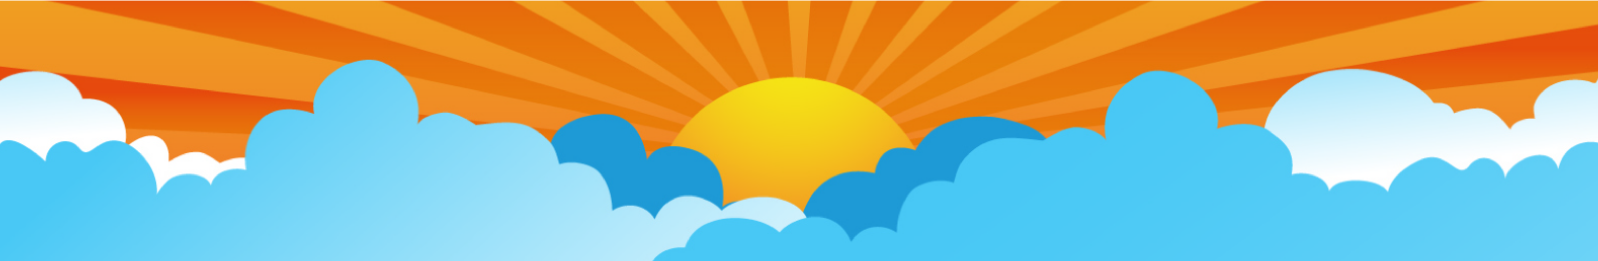
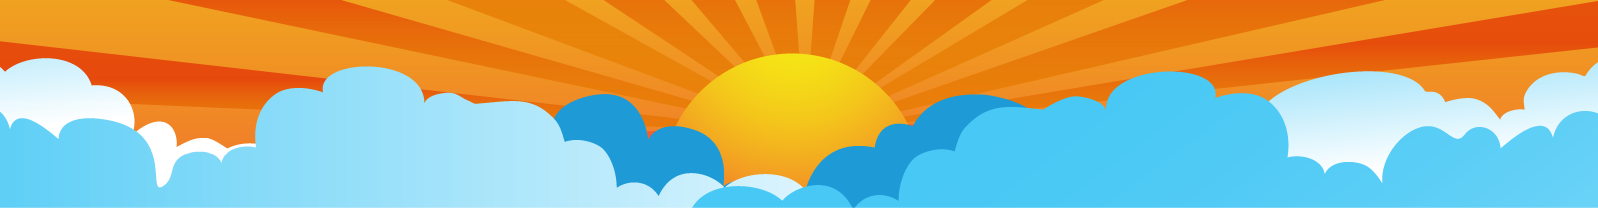
Add countdown

diff --git a/public/js/app.js b/public/js/app.js
@@ -5,6 +5,8 @@ $(function() {
      update: onWordSorted
   });
 
+  setInterval(countDown, 1000);
+
   $('.circle').click(function() {
     var targetSelector = $(this).data('target');
     var offset = $(targetSelector).offset().top;
@@ -62,10 +64,10 @@ function onWordSorted(event, ui) {
   });
 
   if(isOrdered(indexes)) {
-    $('#' + scramble.data('message')).show();
+    $('#' + scramble.data('message')).fadeIn();
   }
   else {
-   $('#' + scramble.data('message')).hide(); 
+   $('#' + scramble.data('message')).fadeOut(); 
   }
 }
 
@@ -134,4 +136,19 @@ function userScrolledThePage() {
   var target = $('.circle')[targetIndex];
 
   $(target).addClass('full');
+}
+
+function countDown() {
+  var eventDate = new Date(2012, 08, 18, 9, 0, 0).getTime();
+  var now = new Date().getTime();
+  var secsLeft = Math.floor(eventDate - now) / 1000;
+  var daysLeft = Math.floor(secsLeft / 86400);
+  var hoursLeft = Math.floor((secsLeft % 86400) / 3600);
+  var minutesLeft = Math.floor(Math.floor(Math.floor(secsLeft % 86400) % 3600) / 60);
+  var secondsLeft = Math.floor(Math.floor(Math.floor(secsLeft % 86400) % 3600) % 60);
+
+  $('.days span').text(daysLeft + " ");
+  $('.hours span').text(hoursLeft + " ");
+  $('.min span').text(minutesLeft + " ");
+  $('.sec span').text(secondsLeft + " ");
 }

diff --git a/views/scss/app.scss b/views/scss/app.scss
@@ -142,7 +142,7 @@ body {
   z-index: 2;
   position: fixed;
   bottom: 0;
-  height: 261px;
+  height: 208px;
   left: 0;
   right: 0;
   background: url(/images/footer.png) top center no-repeat;
@@ -159,14 +159,14 @@ body {
   #sunrise {
     text-shadow: -1px -1px #338AAC;
     position: relative;
-    top: 75px;
+    top: 30px;
     float: right;
     color: white;
     right: 0;
     p {
       font-size: 25px;
       margin: 0;
-      text-indent: 10px;
+      text-indent: 20px;
     }
     div {
       float: left;
@@ -222,7 +222,7 @@ body {
   background: url(/images/mobility.png) top center no-repeat fixed;
   background-size: cover;
   height: 648px;
-  margin-top: 95px;
+  margin-top: 75px;
   .mobility_content {
     position: relative;
     padding-top: 205px;
